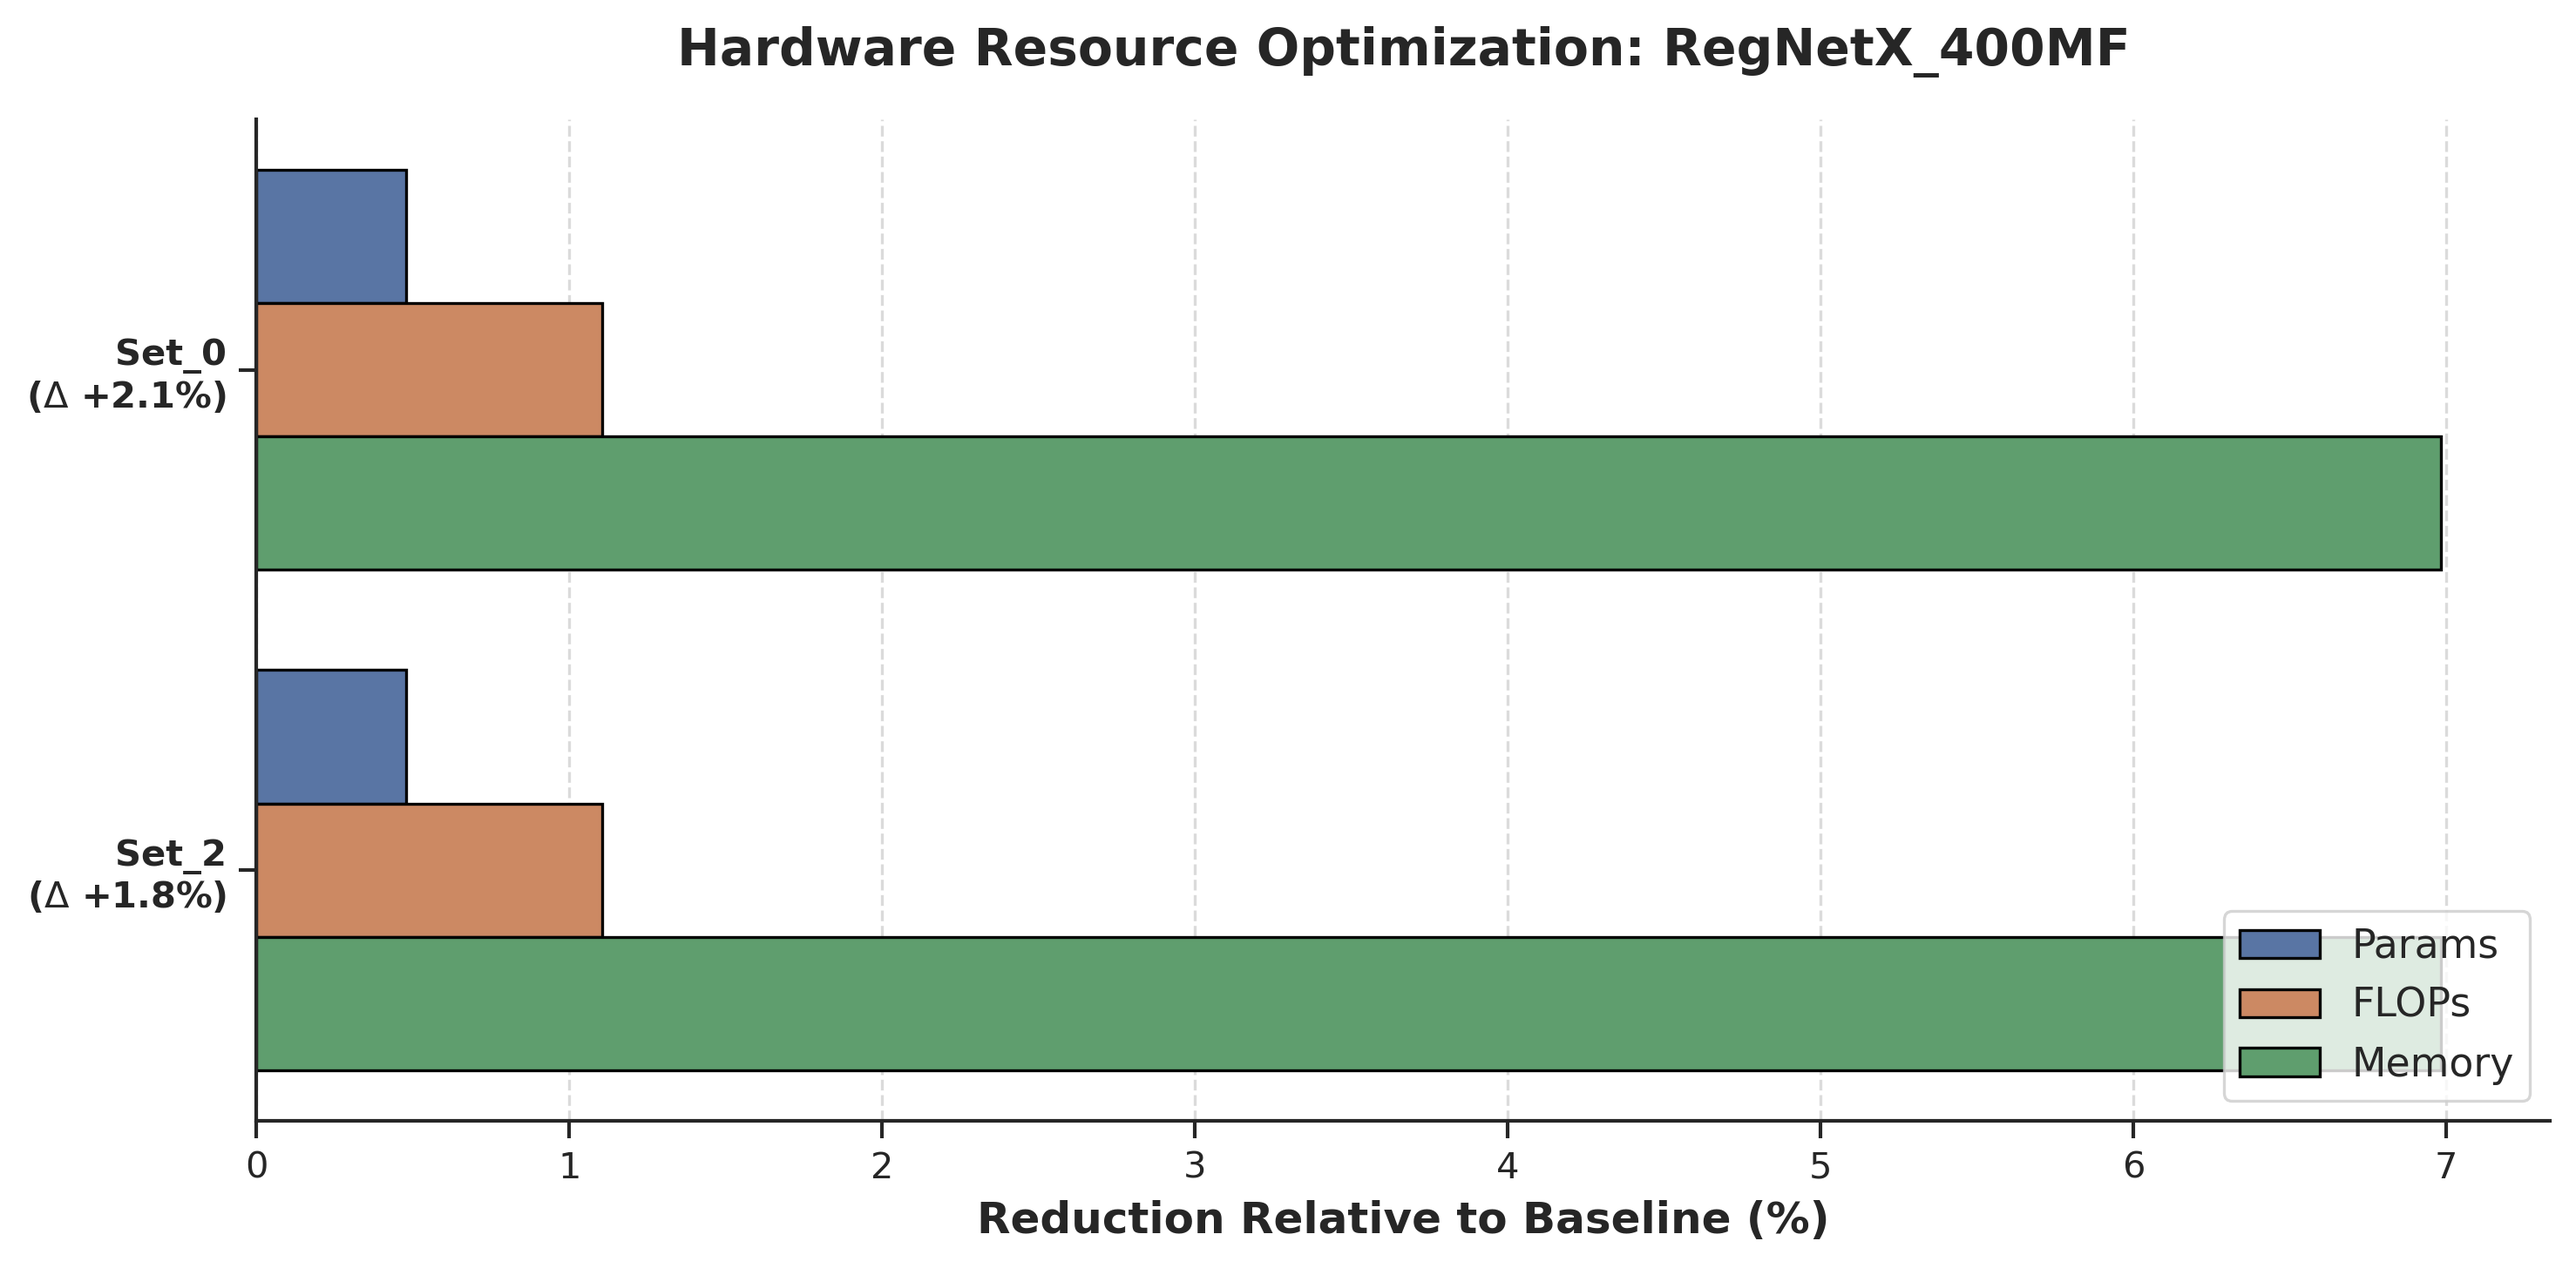
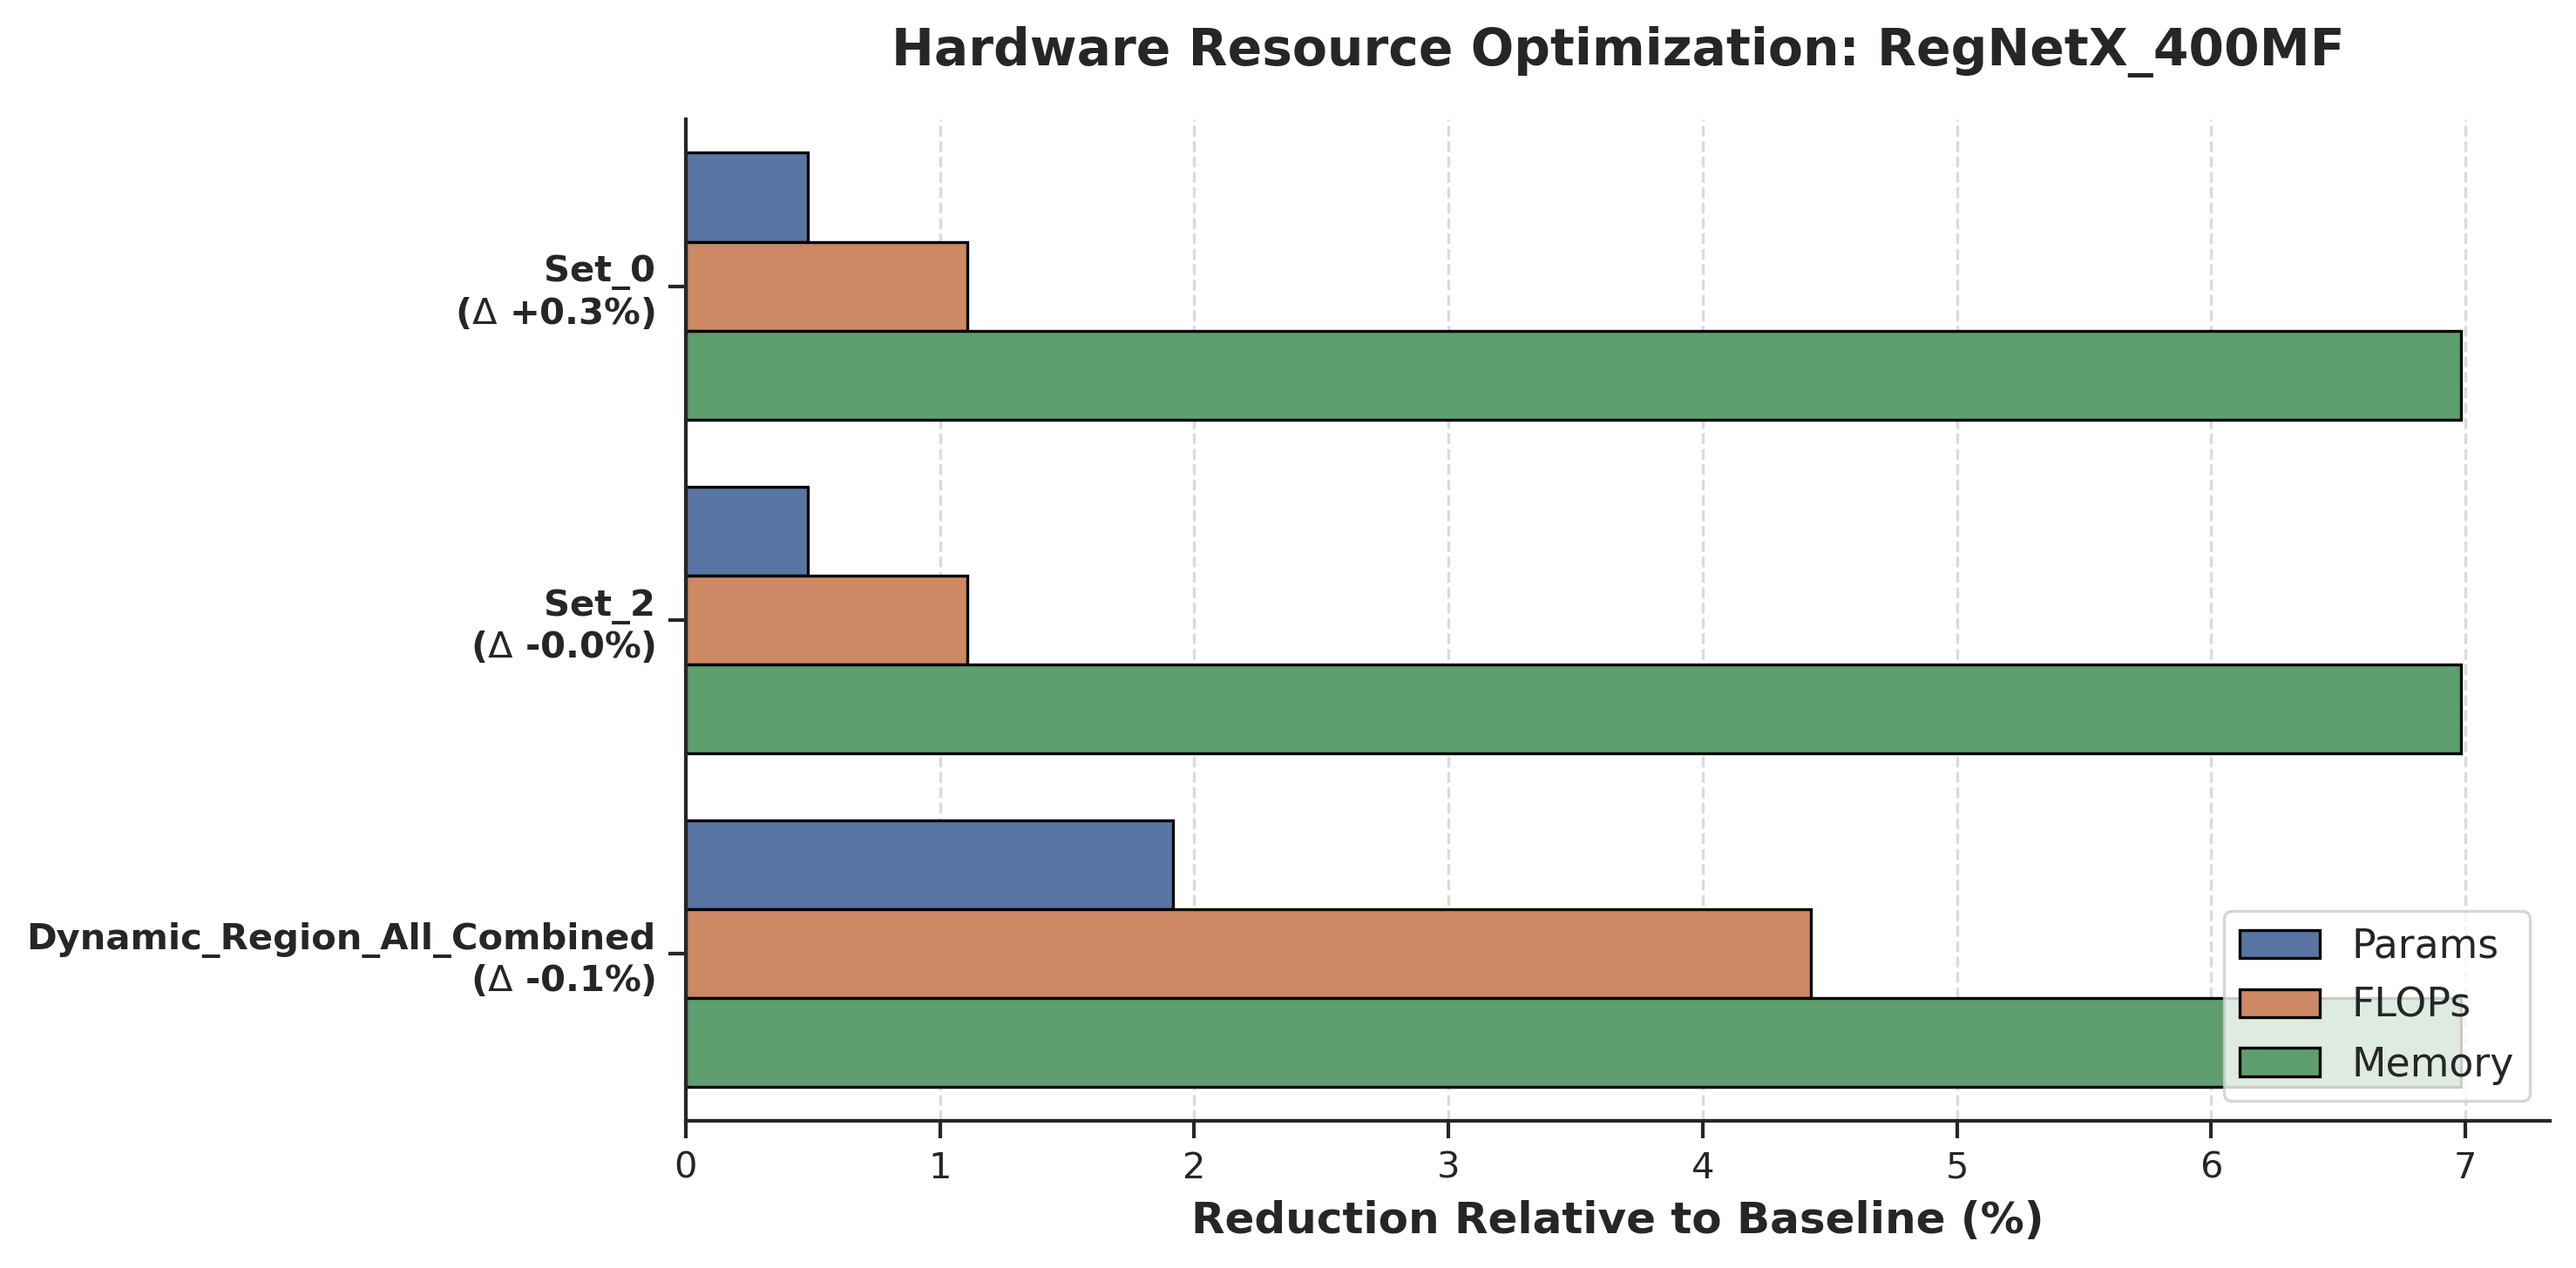
update

diff --git a/manuscript/Tranfer/figures_ep200_pre400/hardware_efficiency/RegNetX_400MF_cifar100__all_candidates.tex b/manuscript/Tranfer/figures_ep200_pre400/hardware_efficiency/RegNetX_400MF_cifar100__all_candidates.tex
@@ -2,7 +2,8 @@
 \toprule
 Candidate Block & Delta Acc (%) & Params Red. (%) & FLOPs Red. (%) & Memory Red. (%) \\
 \midrule
-Set_0 & 2.09 & 0.48 & 1.11 & 6.98 \\
-Set_2 & 1.78 & 0.48 & 1.11 & 6.98 \\
+Set_0 & 0.30 & 0.48 & 1.11 & 6.98 \\
+Set_2 & -0.01 & 0.48 & 1.11 & 6.98 \\
+Dynamic_Region_All_Combined & -0.12 & 1.92 & 4.42 & 6.98 \\
 \bottomrule
 \end{tabular}
